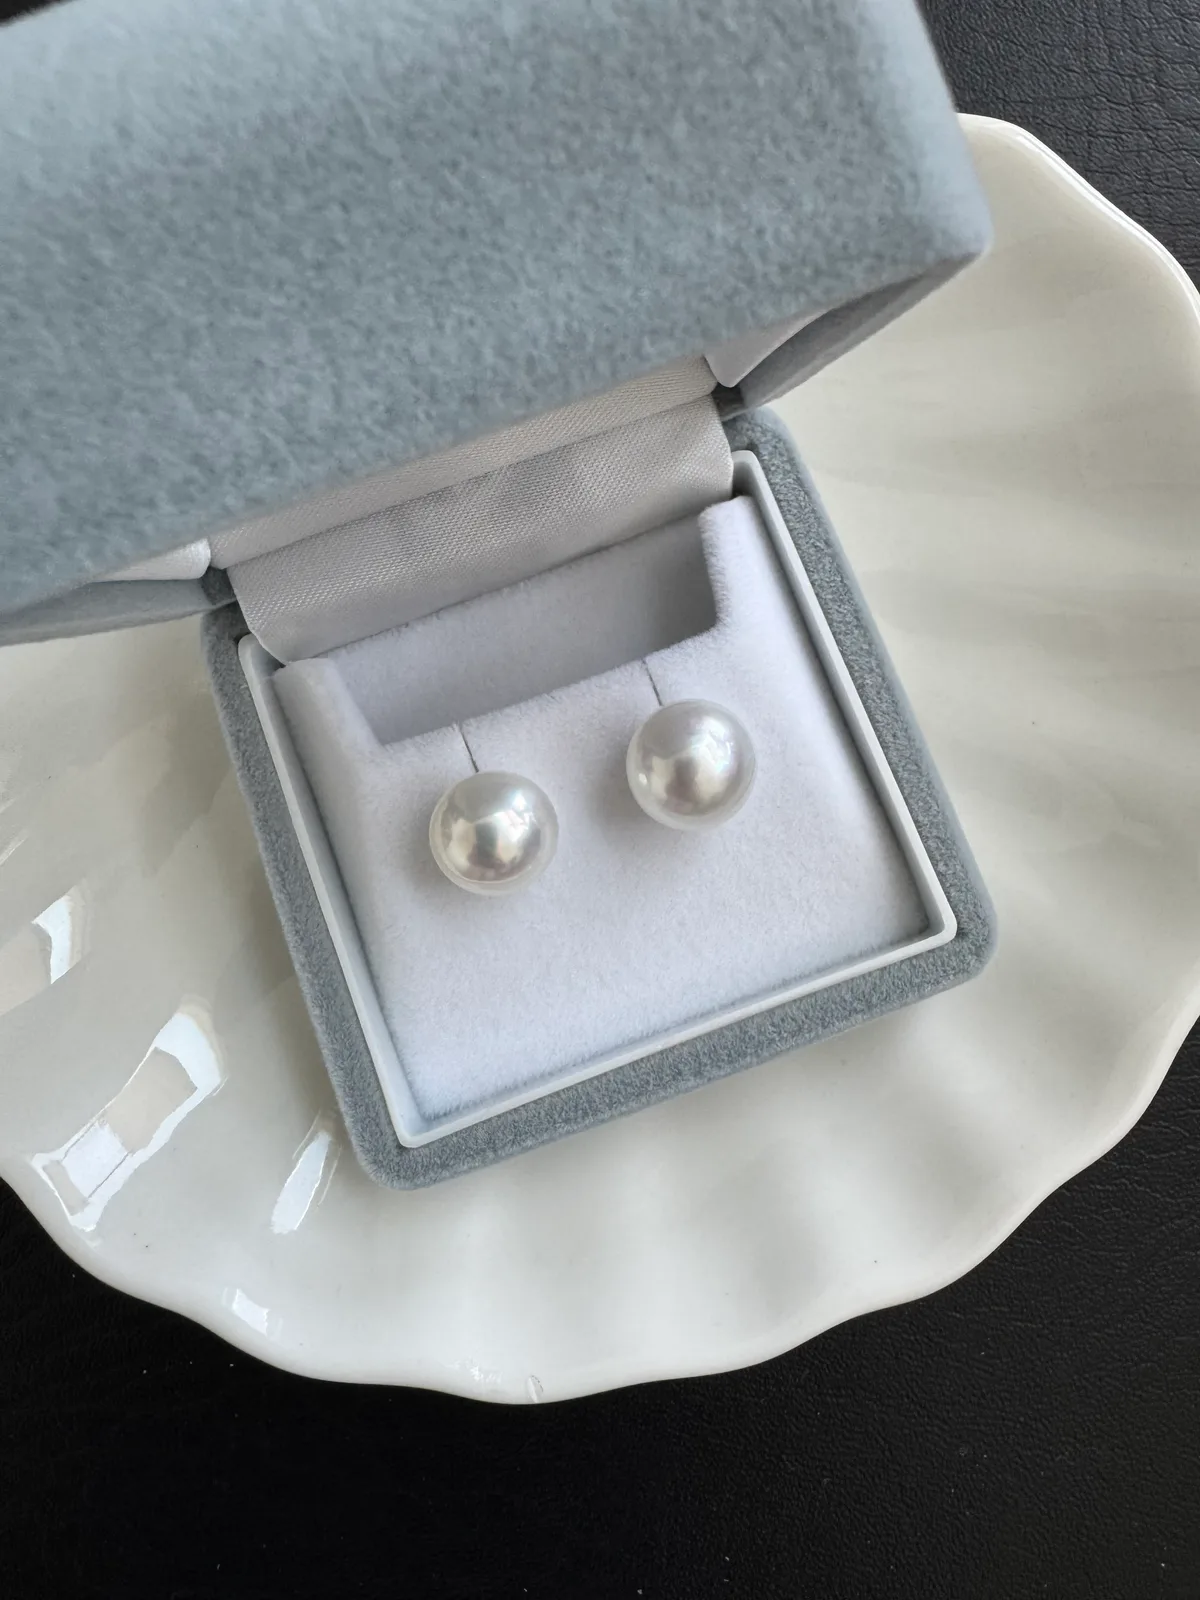
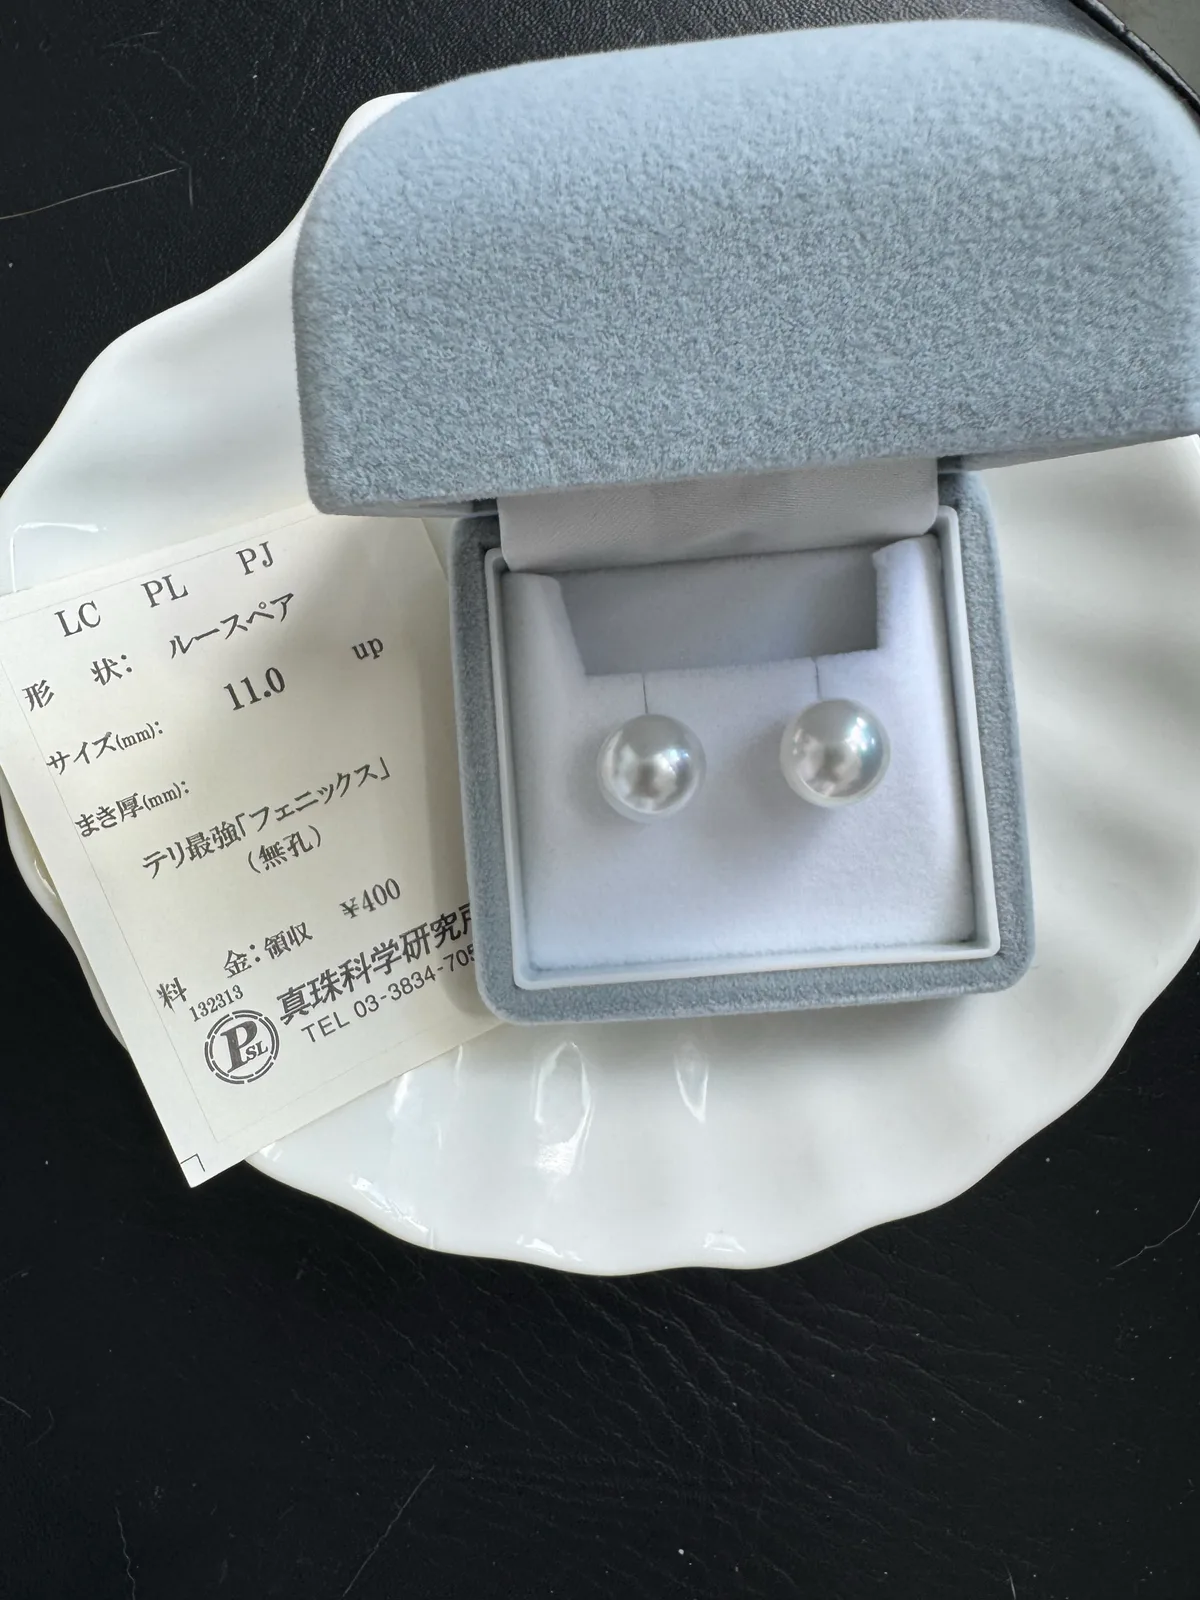
Sync EN sidenotes with ZH specs, add South Sea Diana earrings (#34)
## Summary
- Ported spec corrections from the Chinese sidenotes (sizes, materials,
certifications) into the English earrings/rings/bracelets sidenotes,
which had drifted out of sync
- Fixed a literal `\n` typo in the Chinese rings sidenote for
`ring-southsea-catier` that would have rendered as visible text
- Swapped in new product photos for `southsea-pheonex-11mm` (photos 1 &
4) and `southsea-pheonix-12mm` (photos 1 & 2, keeping the originals as
photos 3 & 4)
- Added a new featured South Sea earring product,
`earrings-southsea-diana-11mm` (South Sea white, 11.0mm, 18K white gold,
venus certificate), with EN/ZH copy and sidenotes

## Test plan
- [x] `yarn check-data` passes (61 products, 9 home icons)
- [x] `yarn check-gallery` passes for all touched folders
- [x] JSON validated for all four touched i18n files

🤖 Generated with [Claude Code](https://claude.com/claude-code)

---------

diff --git a/src/data/products/earrings.ts b/src/data/products/earrings.ts
@@ -110,6 +110,20 @@ export const earringsProducts: Product[] = [
     ],
   },
   {
+    id: "earrings-southsea-diana-11mm",
+    featured: true,
+    collection: "southsea",
+    category: "earrings",
+    titleKey: "products.earrings-southsea-diana-11mm",
+    descriptionKey: "earrings-southsea-diana-11mm",
+    images: [
+      "/gallery/earrings/southsea-diana-11mm/southsea-diana-1.webp",
+      "/gallery/earrings/southsea-diana-11mm/southsea-diana-2.webp",
+      "/gallery/earrings/southsea-diana-11mm/southsea-diana-3.webp",
+      "/gallery/earrings/southsea-diana-11mm/southsea-diana-4.webp",
+    ],
+  },
+  {
     id: "earrings-southsea-9.0mm-feather",
     featured: false,
     collection: "southsea",
@@ -345,6 +359,8 @@ export const earringsProducts: Product[] = [
     images: [
       "/gallery/earrings/southsea-pheonix-12mm/southsea-pheonix-12mm-1.webp",
       "/gallery/earrings/southsea-pheonix-12mm/southsea-pheonix-12mm-2.webp",
+      "/gallery/earrings/southsea-pheonix-12mm/southsea-pheonix-12mm-3.webp",
+      "/gallery/earrings/southsea-pheonix-12mm/southsea-pheonix-12mm-4.webp",
     ],
   },
   {
